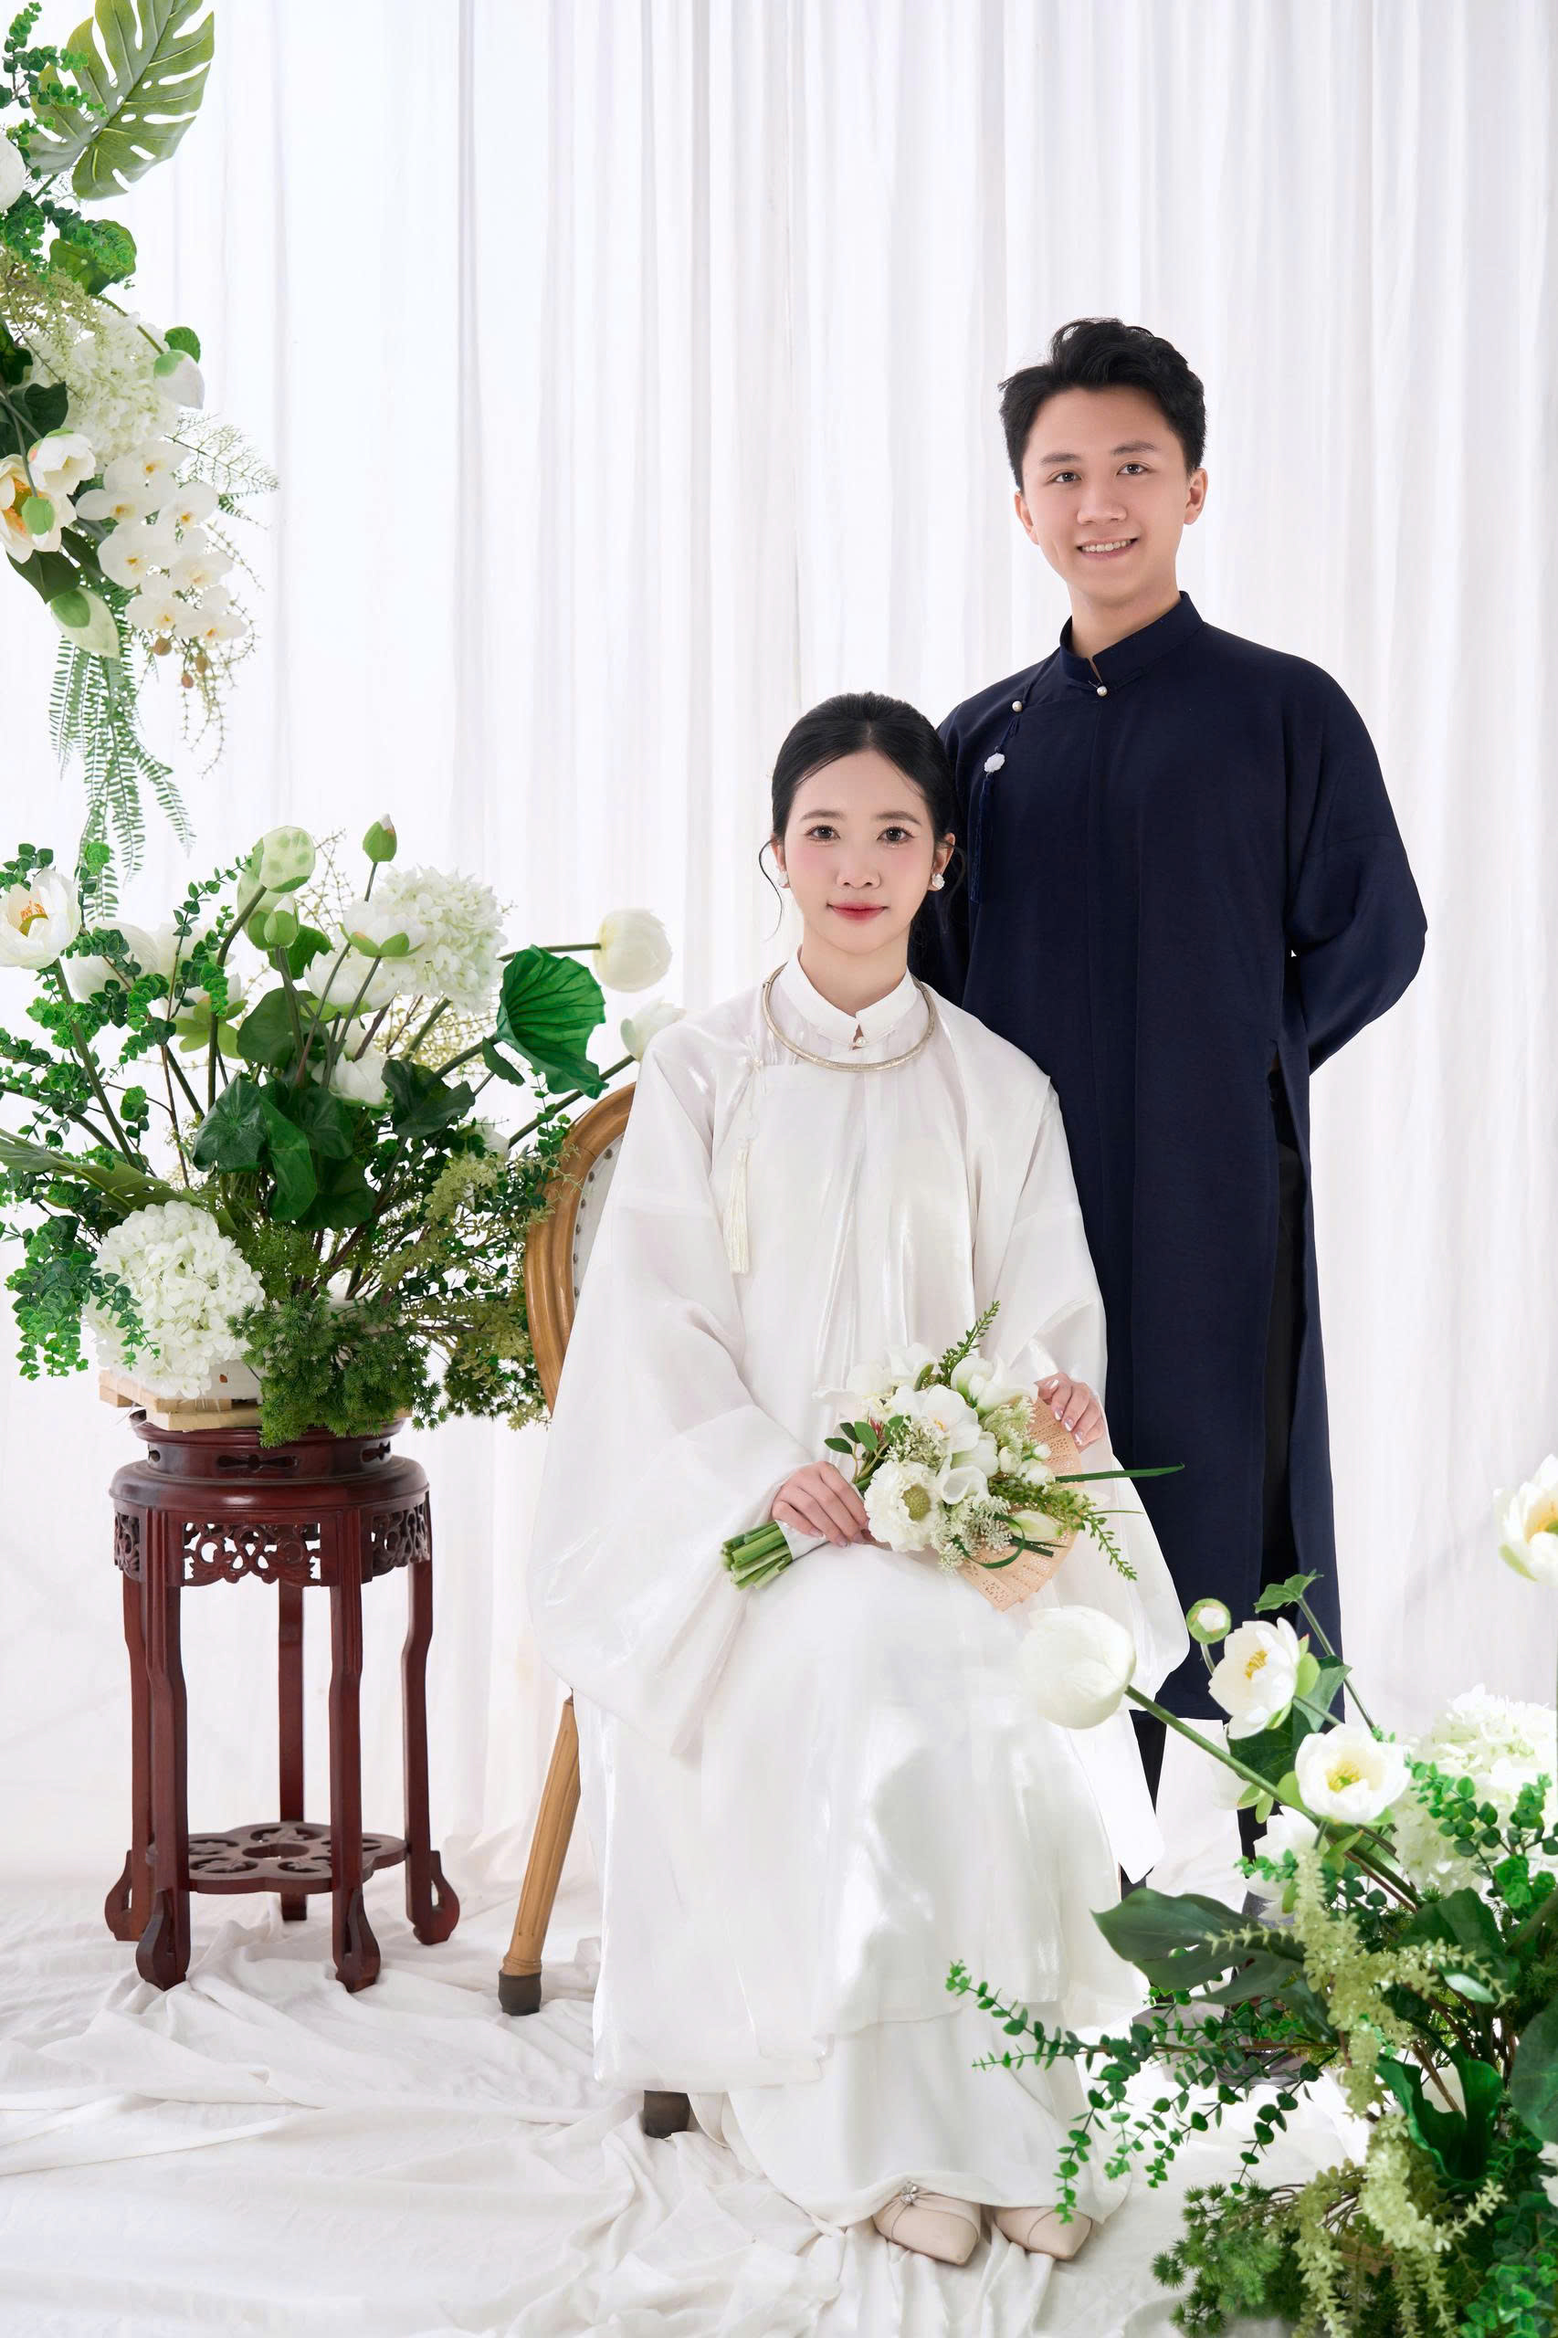
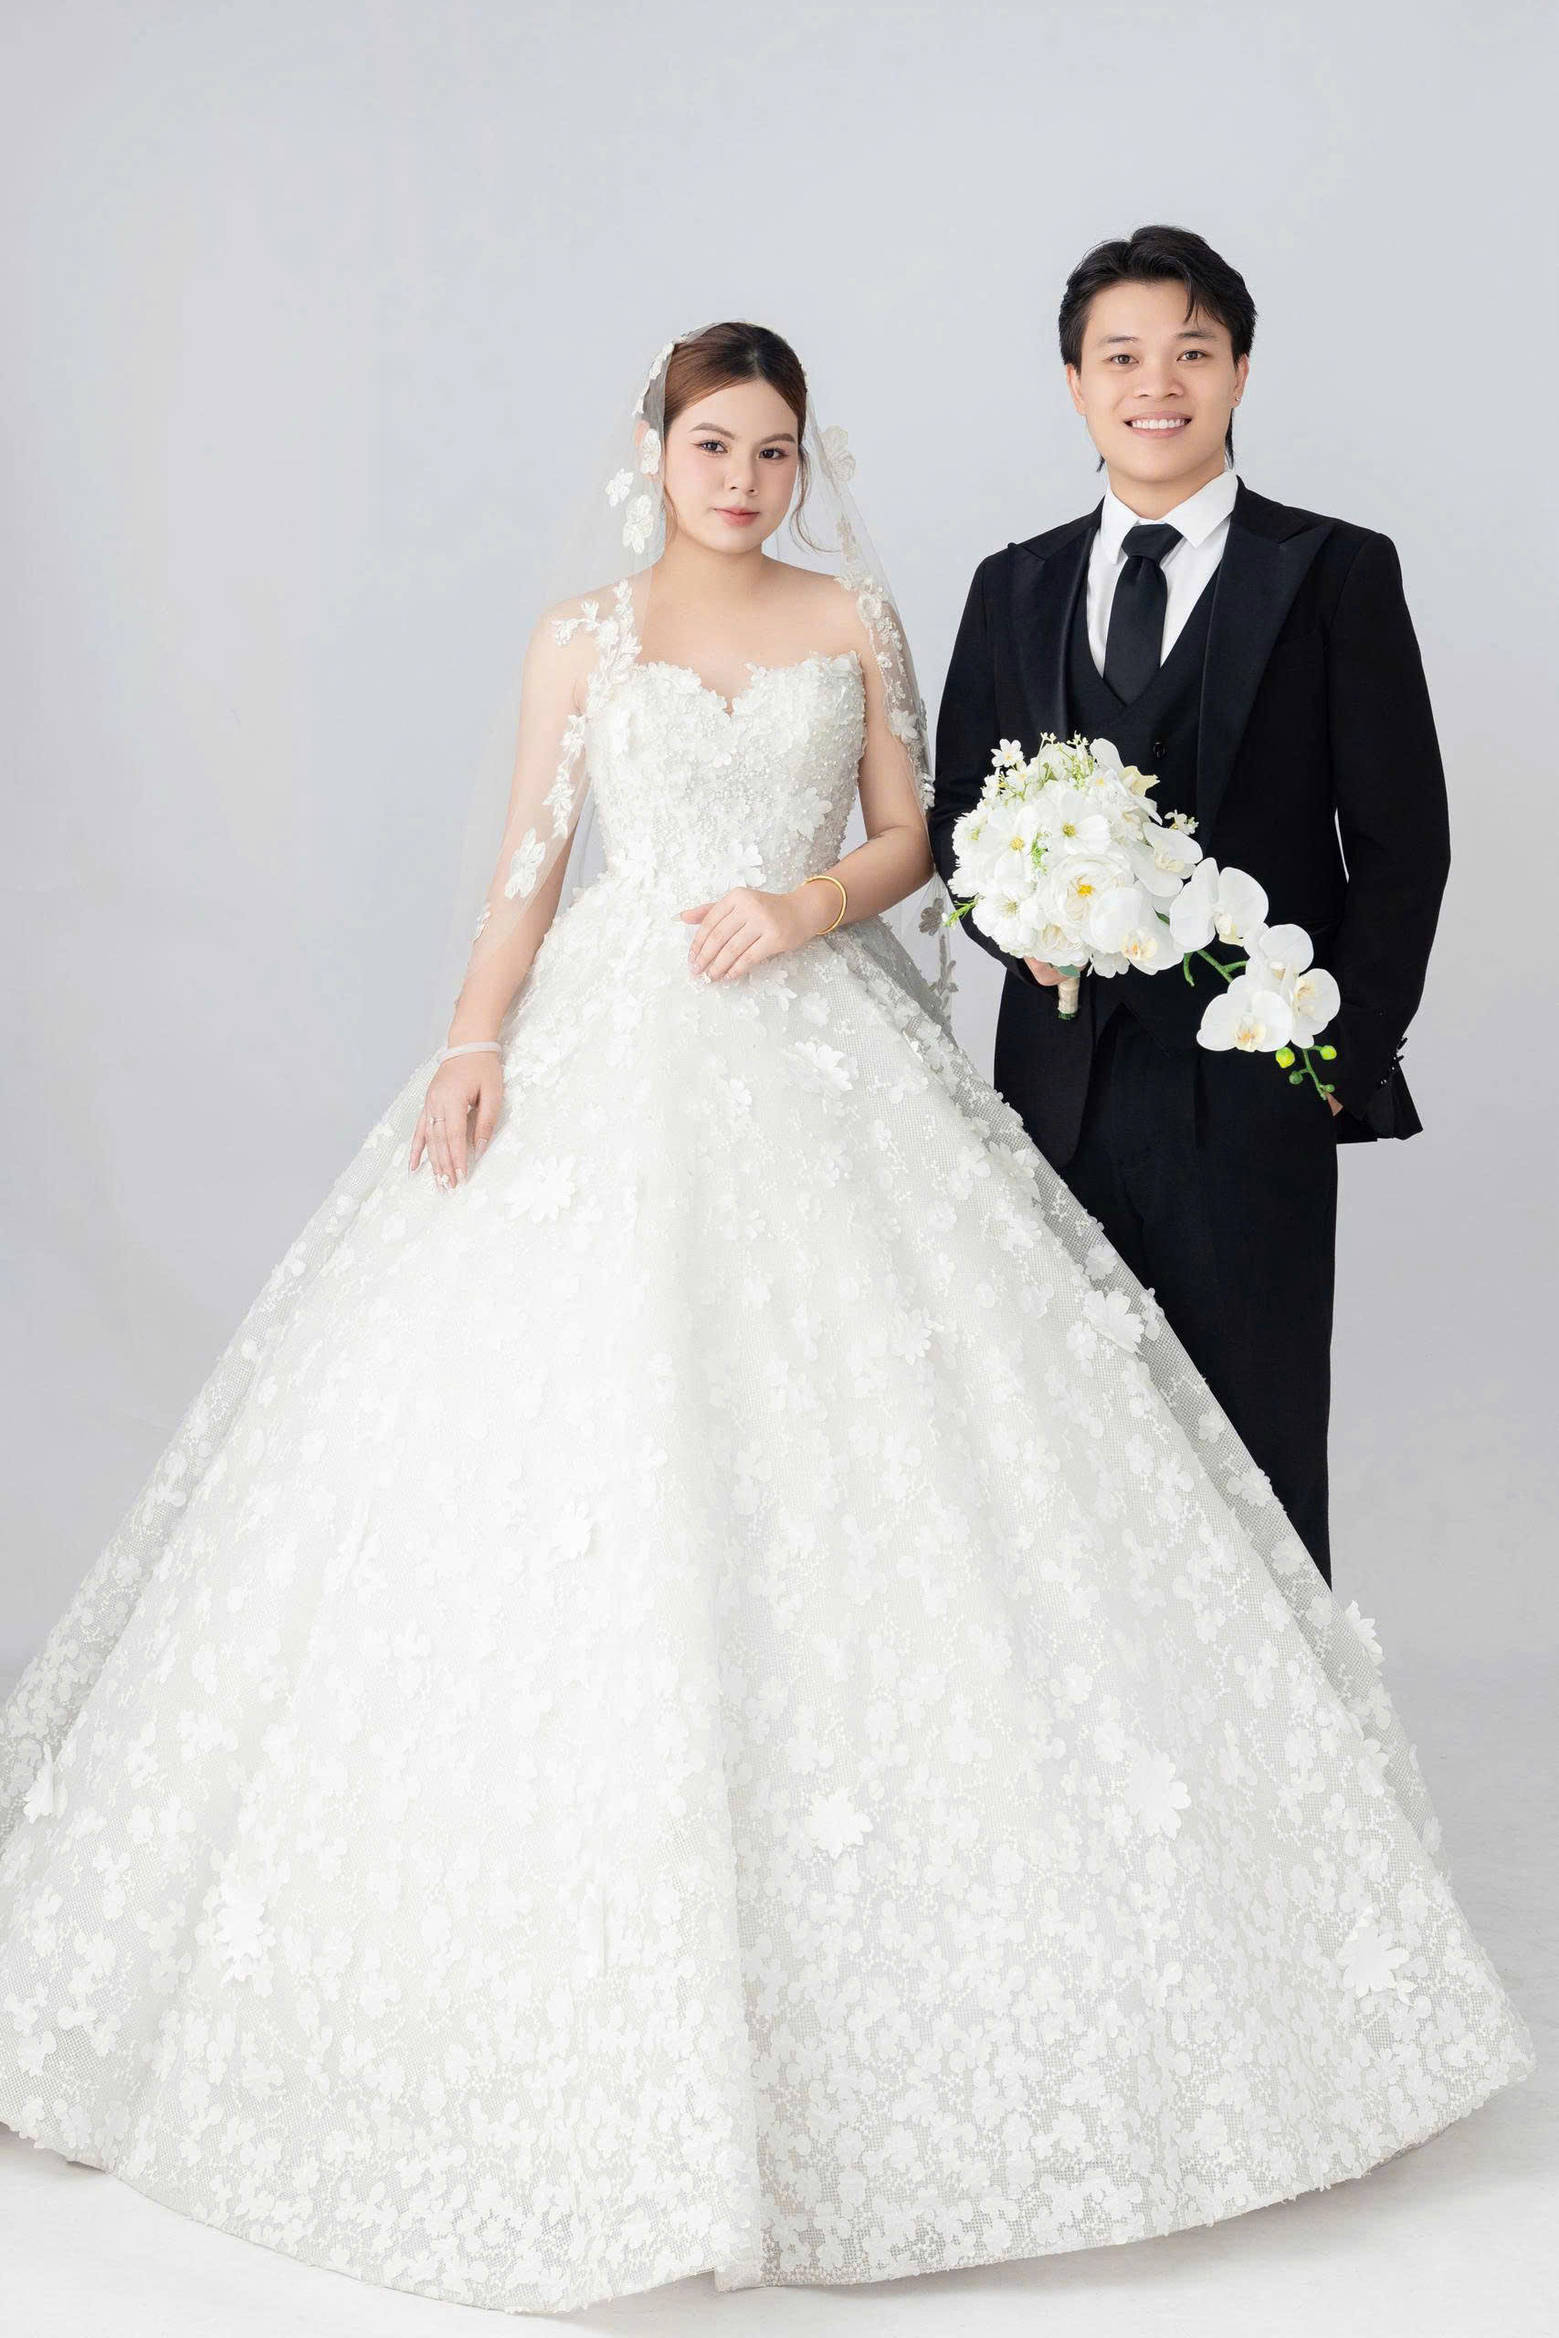
cmt

diff --git a/index.html b/index.html
@@ -9,30 +9,25 @@
 
   <meta name="viewport" content="width=device-width, initial-scale=1, maximum-scale=1, user-scalable=no" />
 
-  <title>Việt Hoàng & Thảo Uyên</title>
+  <title>Đình Điện & Thu Hoài</title>
 
   <!-- SEO cơ bản -->
   <meta name="description"
-    content="Trân trọng kính mời bạn đến dự bữa cơm thân mật chung vui cùng gia đình chúng tôi vào ngày 17/01/2026." />
+    content="Trân trọng kính mời bạn đến dự bữa cơm thân mật chung vui cùng gia đình chúng tôi vào ngày 18/05/2026." />
 
-  <meta name="keywords" content="thiệp cưới, thiệp cưới online, thiệp mời cưới, Việt Hoàng Thảo Uyên" />
+  <meta name="keywords" content="thiệp cưới, thiệp cưới online, thiệp mời cưới, Đình Điện Thu Hoài" />
 
-  <meta name="author" content="Việt Hoàng & Thảo Uyên" />
+  <meta name="author" content="Đình Điện & Thu Hoài" />
   <meta name="robots" content="index, follow" />
 
   <!-- Open Graph: Facebook / Zalo -->
   <meta property="og:locale" content="vi_VN" />
   <meta property="og:type" content="website" />
 
-  <meta property="og:title" content="Việt Hoàng & Thảo Uyên" />
+  <meta property="og:title" content="Đình Điện & Thu Hoài" />
   <meta property="og:description"
-    content="Trân trọng kính mời bạn đến dự bữa cơm thân mật chung vui cùng gia đình chúng tôi vào ngày 17/01/2026." />
+    content="Trân trọng kính mời bạn đến dự bữa cơm thân mật chung vui cùng gia đình chúng tôi vào ngày 18/05/2026." />
 
-  <!-- Ảnh đại diện khi share link -->
-  <!-- <meta property="og:image" content="./assets/images/img/thiep.jpg" />
-  <meta property="og:image:alt" content="Thiệp cưới Việt Hoàng & Thảo Uyên" />
-  <meta property="og:image:width" content="1200" />
-  <meta property="og:image:height" content="630" /> -->
 
   <meta property="og:url" content="https://theiz15.github.io/thiep-cuoi/" />
 
@@ -40,7 +35,7 @@
   <meta property="og:image" content="https://theiz15.github.io/thiep-cuoi/assets/images/img/thiep.jpg" />
   <meta property="og:image:secure_url" content="https://theiz15.github.io/thiep-cuoi/assets/images/img/thiep.jpg" />
 
-  <meta property="og:site_name" content="Thiệp cưới Việt Hoàng & Thảo Uyên" />
+  <meta property="og:site_name" content="Thiệp cưới Đình Điện và Thu Hoài" />
 
   <link rel="canonical" href="https://theiz15.github.io/thiep-cuoi/" />
   <link rel="apple-touch-icon" sizes="180x180" href="../../apple-touch-icon.png" />
@@ -251,7 +246,7 @@
     }
 
     [data-node-id="A6pfP9GuDP"] .photo-bg-wrap {
-      background-image: url("./assets/images/img/11.jpg") !important;
+      background-image: url("./assets/images/img/14.jpg") !important;
     }
 
     [data-node-id="8gsI0WZ8aK"] .photo-bg-wrap {
@@ -4468,7 +4463,7 @@
                             class="jsx-1828971989">
                             <div disabled=""
                               style="height:auto;width:100%;min-width:20px;color:#3a4a3a;font-size:48px;text-shadow:0px 0px 2px rgba(0,0,0,0);font-weight:bold;font-family:&quot;Soul Note Display&quot;;text-align:right;line-height:normal;letter-spacing:0px;text-transform:uppercase;text-decoration:none;font-style:normal;pointer-events:none;overflow:hidden;word-break:break-word"
-                              contentEditable="false">Thảo Uyên</div>
+                              contentEditable="false">Thu Hoài</div>
                           </div>
                         </div>
                       </div>
@@ -6127,7 +6122,7 @@
     // 1. CẤU HÌNH THÔNG TIN CHÍNH
     // ==========================================
     const CONFIG = {
-      weddingDate: new Date(2026, 0, 17, 11, 0, 0).getTime(),
+      weddingDate: new Date(2026, 4, 18, 15, 0, 0).getTime(),
       qrCodeImageURL: "./assets/images/img/qr_nhagai.jpg",
       telegramBotToken: "",
       telegramChatId: "",
@@ -6139,27 +6134,27 @@
     const guestNameFromUrl = urlParams.get('kinhmoi') ? decodeURIComponent(urlParams.get('kinhmoi')) : "";
 
     const textData = {
-      "ZJ2fiWLKI1": "Việt Hoàng",
-      "kluwvOBss7": "Thảo Uyên",
+      "ZJ2fiWLKI1": "Đình Điện",
+      "kluwvOBss7": "Thu Hoài",
       "-0BXrJ-i6E": "Lễ Vu Quy được tổ chức tại",
-      "E2uQfqvYbi": "Tư Gia Nhà Gái",
-      "GAarz1mzC6": "Việt Hoàng",
-      "Mv1w2ApCo_": "Thảo Uyên",
-      "0AGIWVlwUg": "Tỉnh. Nghệ An",
-      "CGyUmyvyP0": "Tỉnh. Điện Biên",
+      "E2uQfqvYbi": "Tư Gia Nhà Trai",
+      "GAarz1mzC6": "Đình Điện",
+      "Mv1w2ApCo_": "Thu Hoài",
+      "0AGIWVlwUg": "TP. Hà Nội",
+      "CGyUmyvyP0": "TP. Lào Cai",
       "in3mT6yPnO": "Mọi thứ bắt đầu từ một lời chào giản đơn, nhưng đã thay đổi cả cuộc đời chúng tôi.&nbsp;<div>Qua những khoảnh khắc cười đùa, những buổi tối ấm áp bên nhau, chúng tôi đã cùng nhau học hỏi và yêu thương.&nbsp;</div><div>Hôm nay, chúng tôi hân hoan chia sẻ hành trình này với những người thân yêu, và mong chờ được cùng các bạn ăn mừng tình yêu của chúng tôi.",
       "Jcke5MC9Yc": "09:00 <br> Checkin",
       "4kNEMlNi-7": "11:30 <br> Lễ Thành Hôn",
       "8R3cgDRX8l": guestNameFromUrl ? guestNameFromUrl : "Quý Khách",
-      "OvZuKQod5_": "Ông: Trần Văn Hương <br> Bà: Nguyễn Thị Hằng",
-      "uaoSRch0Zt": "Ông: Hoàng Minh Kỷ <br> Bà: Nguyễn Thị Khanh",
-      "TNE6oCylda": "Thôn Mỹ Hưng, xã Thanh Nưa, tỉnh Điện Biên <br> ( xã Thanh Hưng cũ)",
-      "WK9uKUZ1As": "Tháng 01",
-      "KJjUPoouo_": "11 : 00 , THỨ BẢY",
-      "uT8CgFG2vg": "17",
-      "fKdPqo78UQ": "THÁNG 01",
-      "55OXnoIy7E": "NĂM 2026",
-      "JFycOGOdPs": "(Tức ngày 29 tháng 11 năm Ất Tỵ)",
+      "OvZuKQod5_": "Ông: Lê Văn Binh <br> Bà: Phạm Thị Yến",
+      "uaoSRch0Zt": " Bà: Vũ Thị Vân",
+      "TNE6oCylda": "Thôn Thao Nội, Xã Phú Xuyên, Thành phố Hà Nội",
+      "WK9uKUZ1As": "Tháng 05",
+      "KJjUPoouo_": "15 : 00 , Thứ Hai",
+      "uT8CgFG2vg": "18",
+      "fKdPqo78UQ": "tháng 05",
+      "55OXnoIy7E": "năm 2026",
+      "JFycOGOdPs": "Âm lịch: 02/04/2026 (năm Bính Ngọ )",
     };
 
     // 2. HÀM GỬI TELEGRAM
@@ -6310,7 +6305,7 @@
 
     // Main function
     function overrideWeddingInfo() {
-      document.title = "Lễ Vu Quy: Việt Hoàng & Thảo Uyên";
+      document.title = "Lễ Vu Quy: Đình Điện và Thu Hoài";
       // A. Cập nhật Text nội dung
       for (let id in textData) {
         let element = document.querySelector(`[data-node-id="${id}"] [contenteditable]`);
@@ -6352,7 +6347,7 @@
       if (mapButton && !mapButton.dataset.finalFixed) {
 
         // 1. Dùng Link Search API (Tránh lỗi redirect của link rút gọntrên mobile)
-        const realMapUrl = "https://www.google.com/maps/place/21%C2%B023'03.7%22N+102%C2%B058'59.2%22E/@21.4138328,103.0248382,9z/data=!4m4!3m3!8m2!3d21.3843611!4d102.9831111?entry=ttu&g_ep=EgoyMDI2MDEwNi4wIKXMDSoASAFQAw%3D%3D";
+        const realMapUrl = "https://www.google.com/maps/place/Nh%C3%A0+v%C4%83n+h%C3%B3a+th%C3%B4n+Thao+N%E1%BB%99i/@20.7446283,105.8938227,20.41z/data=!4m6!3m5!1s0x3135b76c173a260f:0x8407c35569146834!8m2!3d20.7446356!4d105.8937651!16s%2Fg%2F11stpn2416?entry=ttu&g_ep=EgoyMDI2MDQyOC4wIKXMDSoASAFQAw%3D%3D";
 
         // 2. Clone nút để xóa sạch 100% Event Listeners cũ của hệ thống CineLove
         const newMapButton = mapButton.cloneNode(true);
